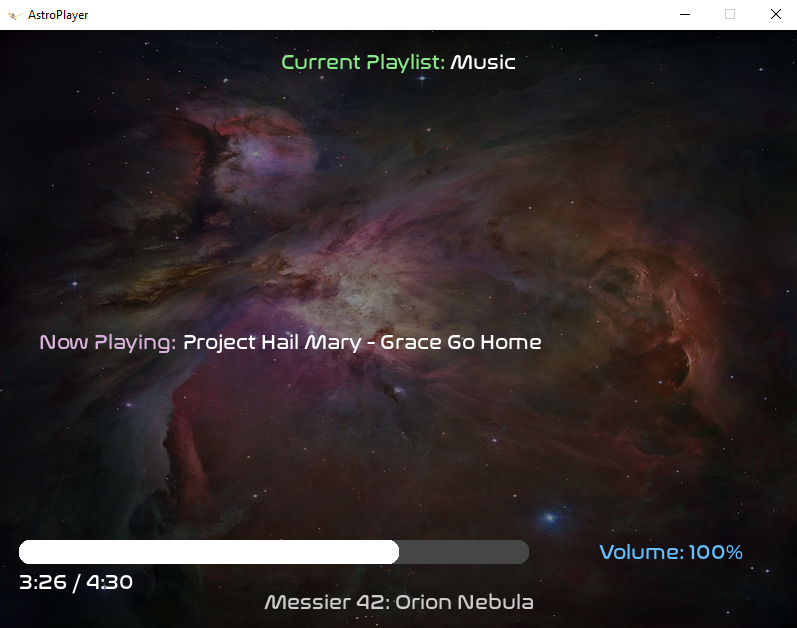
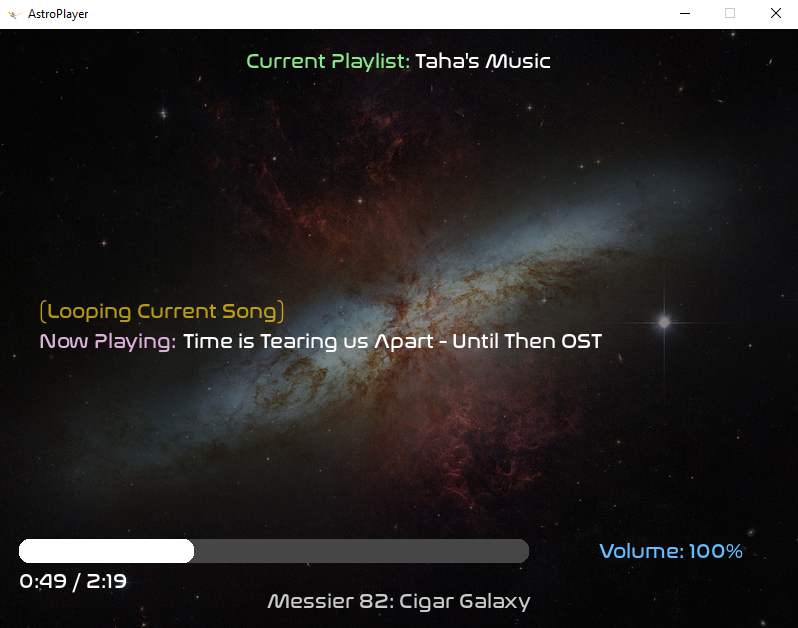
Overlooked a Simple Bug that crahses the Entire Program, Fixed it with literally just 1 line of code (Cause i was using a String in the wrong place instead of Floats...). Well it's fixed now, Updated the Screenshots and maybe Improved a bit of the speed for Audio Processing (By Reducing the Quality 

diff --git a/AstroPlayer.py b/AstroPlayer.py
@@ -184,6 +184,8 @@ try:
 except:
     pass
 
+Slowed_Value, Slowed_Semitones, Nightcore_Value, Nightcore_Semitones, ReverbValue = float(Slowed_Value), float(Slowed_Semitones), float(Nightcore_Value), float(Nightcore_Semitones), float(ReverbValue)
+
 Background = LoadImage()
 overlay = pygame.Surface((800,600), pygame.SRCALPHA)
 overlay.fill((0,0,0,120))
@@ -222,7 +224,7 @@ def ApplyMusicEffects(source, mode):
         sample_rate,
         stretch_factor = Nightcore_Value,
         pitch_shift_in_semitones = Nightcore_Semitones,
-        high_quality = True
+        high_quality = False
         )
         
         soundfile.write(
@@ -237,7 +239,7 @@ def ApplyMusicEffects(source, mode):
         sample_rate,
         stretch_factor = Slowed_Value,
         pitch_shift_in_semitones = Slowed_Semitones,
-        high_quality = True
+        high_quality = False
         )
         
         reverb_effect = Pedalboard([Reverb(room_size = 0.60, wet_level = ReverbValue)]) #REVERB!!! HELL YEAH!! :DDDDDDDDDDD

diff --git a/README.md b/README.md
@@ -54,8 +54,8 @@ _**Backstory:**_ I was originally trying to make a simple python script using py
 ## Current Feature list to be Implemeneted into the Player
 1. [x] A Selectable Playlist View 
 2. [x] A Looping Feature for the Current Playing Song 
-3. [x] A Nightcore/Slowed Mode that changes the Audio Playback and the Background Images
-4. [ ] A Disco Mode that makes the Background images react with the Music
+3. [x] A Nightcore/Slowed Mode that changes the Audio Playback
+4. [ ] A "Disco Mode" that makes the Background images react with the Music
 
 
 ## License
